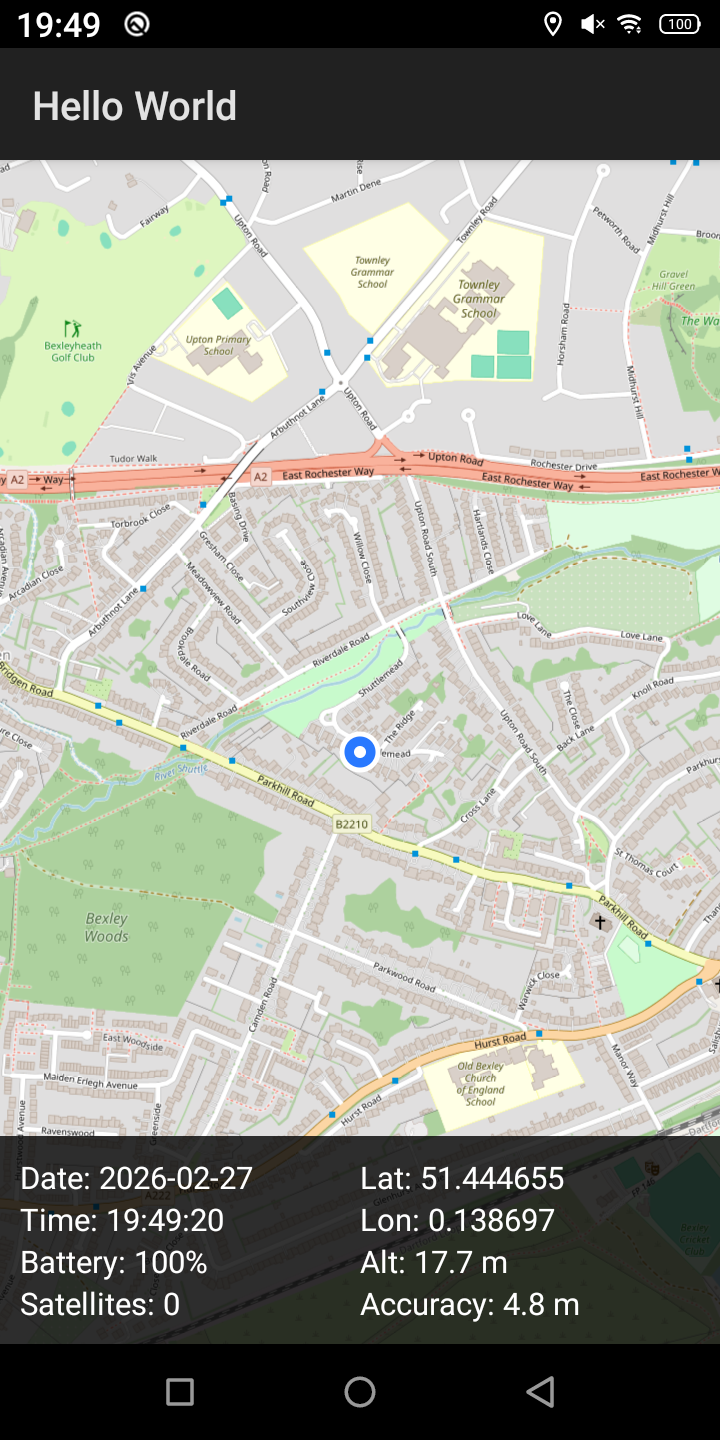
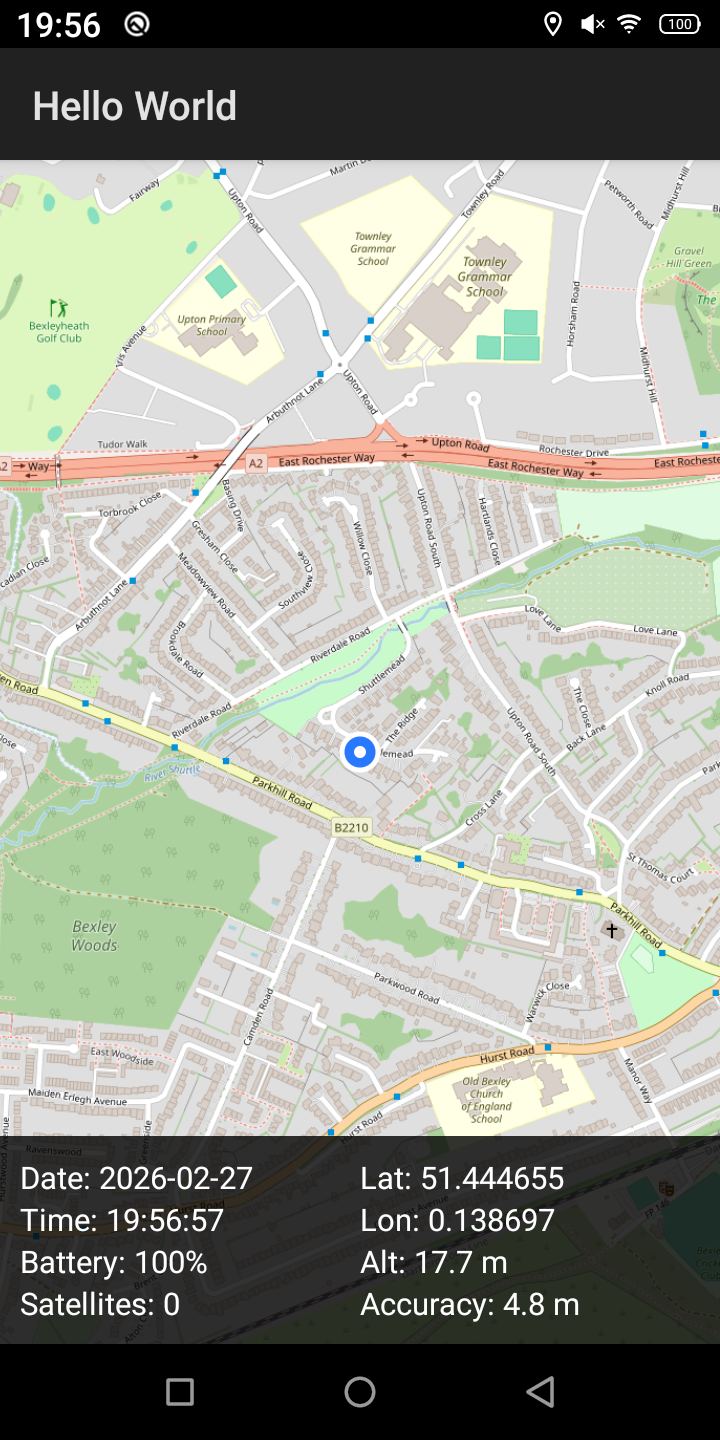
Add pinch-to-zoom on map
ScaleGestureDetector drives a displayScale float; tiles are drawn
scaled between integer zoom levels. Crossing 2x/0.5x thresholds
increments/decrements the OSM zoom level (clamped 1-19) and fetches
new tiles automatically.

Changed region(s): [[0.0, 0.0938, 1.0, 0.875], [0.0917, 0.0, 0.1528, 0.0312]]

diff --git a/HelloWorld/src/com/example/helloworld/MapView.java b/HelloWorld/src/com/example/helloworld/MapView.java
@@ -6,7 +6,10 @@ import android.graphics.BitmapFactory;
 import android.graphics.Canvas;
 import android.graphics.Color;
 import android.graphics.Paint;
+import android.graphics.RectF;
 import android.util.AttributeSet;
+import android.view.MotionEvent;
+import android.view.ScaleGestureDetector;
 import android.view.View;
 
 import java.io.IOException;
@@ -19,25 +22,42 @@ import java.util.concurrent.Executors;
 
 public class MapView extends View {
 
-    private static final int ZOOM = 16;
-    private static final int TILE_SIZE = 256;
+    private static final int TILE_SIZE  = 256;
+    private static final int MIN_ZOOM   = 1;
+    private static final int MAX_ZOOM   = 19;
 
-    private double lat = 0, lon = 0;
+    private int   zoom         = 16;
+    private float displayScale = 1.0f;   // visual scale between integer zoom levels
+
+    private double  lat         = 0;
+    private double  lon         = 0;
     private boolean hasLocation = false;
 
-    private final ConcurrentHashMap<String, Bitmap> tileCache = new ConcurrentHashMap<>();
+    private final ConcurrentHashMap<String, Bitmap>  tileCache = new ConcurrentHashMap<>();
     private final ConcurrentHashMap<String, Boolean> inFlight  = new ConcurrentHashMap<>();
     private final ExecutorService executor = Executors.newFixedThreadPool(4);
 
-    private final Paint tilePaint        = new Paint();
+    private final Paint tilePaint        = new Paint(Paint.FILTER_BITMAP_FLAG);
     private final Paint placeholderPaint = new Paint();
     private final Paint dotFill          = new Paint(Paint.ANTI_ALIAS_FLAG);
     private final Paint dotBorder        = new Paint(Paint.ANTI_ALIAS_FLAG);
     private final Paint dotCenter        = new Paint(Paint.ANTI_ALIAS_FLAG);
-    private final Paint accuracyPaint    = new Paint(Paint.ANTI_ALIAS_FLAG);
 
-    public MapView(Context context) { super(context); init(); }
-    public MapView(Context context, AttributeSet attrs) { super(context, attrs); init(); }
+    private final RectF tileRect = new RectF();
+
+    private final ScaleGestureDetector scaleDetector;
+
+    public MapView(Context context) {
+        super(context);
+        scaleDetector = new ScaleGestureDetector(context, new PinchListener());
+        init();
+    }
+
+    public MapView(Context context, AttributeSet attrs) {
+        super(context, attrs);
+        scaleDetector = new ScaleGestureDetector(context, new PinchListener());
+        init();
+    }
 
     private void init() {
         placeholderPaint.setColor(Color.parseColor("#D0D0D0"));
@@ -51,10 +71,41 @@ public class MapView extends View {
 
         dotCenter.setColor(Color.WHITE);
         dotCenter.setStyle(Paint.Style.FILL);
-
-        accuracyPaint.setColor(Color.parseColor("#402979FF"));
-        accuracyPaint.setStyle(Paint.Style.FILL);
     }
+
+    // ── Pinch gesture ─────────────────────────────────────────────────────────
+
+    private class PinchListener extends ScaleGestureDetector.SimpleOnScaleGestureListener {
+        @Override
+        public boolean onScale(ScaleGestureDetector detector) {
+            displayScale *= detector.getScaleFactor();
+            displayScale  = Math.max(0.25f, Math.min(displayScale, 4.0f));
+
+            // Promote to next integer zoom level when we've scaled 2×
+            while (displayScale >= 2.0f && zoom < MAX_ZOOM) {
+                zoom++;
+                displayScale /= 2.0f;
+                prefetchTiles();
+            }
+            // Demote when we've shrunk to half
+            while (displayScale <= 0.5f && zoom > MIN_ZOOM) {
+                zoom--;
+                displayScale *= 2.0f;
+                prefetchTiles();
+            }
+
+            invalidate();
+            return true;
+        }
+    }
+
+    @Override
+    public boolean onTouchEvent(MotionEvent event) {
+        scaleDetector.onTouchEvent(event);
+        return true;
+    }
+
+    // ── Public API ────────────────────────────────────────────────────────────
 
     public void setLocation(double lat, double lon) {
         this.lat = lat;
@@ -64,45 +115,44 @@ public class MapView extends View {
         postInvalidate();
     }
 
-    // --- Tile math ---
+    // ── Tile math ─────────────────────────────────────────────────────────────
 
-    private int tileX(double lon) {
-        return (int) Math.floor((lon + 180.0) / 360.0 * (1 << ZOOM));
+    private int tileX(double lon, int z) {
+        return (int) Math.floor((lon + 180.0) / 360.0 * (1 << z));
     }
 
-    private int tileY(double lat) {
+    private int tileY(double lat, int z) {
         double r = Math.toRadians(lat);
-        return (int) Math.floor((1.0 - Math.log(Math.tan(r) + 1.0 / Math.cos(r)) / Math.PI) / 2.0 * (1 << ZOOM));
+        return (int) Math.floor((1.0 - Math.log(Math.tan(r) + 1.0 / Math.cos(r)) / Math.PI) / 2.0 * (1 << z));
     }
 
-    private double pixelXInTile(double lon) {
-        double exact = (lon + 180.0) / 360.0 * (1 << ZOOM);
+    private double pixelXInTile(double lon, int z) {
+        double exact = (lon + 180.0) / 360.0 * (1 << z);
         return (exact - Math.floor(exact)) * TILE_SIZE;
     }
 
-    private double pixelYInTile(double lat) {
+    private double pixelYInTile(double lat, int z) {
         double r = Math.toRadians(lat);
-        double exact = (1.0 - Math.log(Math.tan(r) + 1.0 / Math.cos(r)) / Math.PI) / 2.0 * (1 << ZOOM);
+        double exact = (1.0 - Math.log(Math.tan(r) + 1.0 / Math.cos(r)) / Math.PI) / 2.0 * (1 << z);
         return (exact - Math.floor(exact)) * TILE_SIZE;
     }
 
-    // Metres per pixel at this zoom/latitude (used to draw accuracy circle)
-    private float metresPerPixel() {
-        return (float) (156543.03392 * Math.cos(Math.toRadians(lat)) / (1 << ZOOM));
+    private int wrapX(int x, int z) {
+        int max = 1 << z;
+        return ((x % max) + max) % max;
     }
 
-    // --- Tile fetching ---
+    // ── Tile fetching ─────────────────────────────────────────────────────────
 
     private void prefetchTiles() {
-        int cx = tileX(lon);
-        int cy = tileY(lat);
-        int maxTile = (1 << ZOOM) - 1;
+        int cx      = tileX(lon, zoom);
+        int cy      = tileY(lat, zoom);
+        int maxTile = (1 << zoom) - 1;
         for (int dy = -4; dy <= 4; dy++) {
             for (int dx = -4; dx <= 4; dx++) {
                 int ty = cy + dy;
                 if (ty < 0 || ty > maxTile) continue;
-                int tx = wrapX(cx + dx);
-                fetchTile(ZOOM, tx, ty);
+                fetchTile(zoom, wrapX(cx + dx, zoom), ty);
             }
         }
     }
@@ -134,12 +184,7 @@ public class MapView extends View {
         });
     }
 
-    private int wrapX(int x) {
-        int max = 1 << ZOOM;
-        return ((x % max) + max) % max;
-    }
-
-    // --- Drawing ---
+    // ── Drawing ───────────────────────────────────────────────────────────────
 
     @Override
     protected void onDraw(Canvas canvas) {
@@ -150,45 +195,46 @@ public class MapView extends View {
             return;
         }
 
-        int W = getWidth();
-        int H = getHeight();
+        int   W             = getWidth();
+        int   H             = getHeight();
+        float scaledTile    = TILE_SIZE * displayScale;
 
-        int cx = tileX(lon);
-        int cy = tileY(lat);
-        float px = (float) pixelXInTile(lon);
-        float py = (float) pixelYInTile(lat);
+        int   cx  = tileX(lon, zoom);
+        int   cy  = tileY(lat, zoom);
+        float px  = (float) pixelXInTile(lon, zoom) * displayScale;
+        float py  = (float) pixelYInTile(lat, zoom) * displayScale;
 
-        // Top-left pixel of the centre tile on screen
         float tileLeft = W / 2f - px;
         float tileTop  = H / 2f - py;
 
-        int maxTile = (1 << ZOOM) - 1;
-        int range = 5;
+        int maxTile = (1 << zoom) - 1;
+        int range   = (int) Math.ceil(Math.max(W, H) / scaledTile / 2) + 1;
 
         for (int dy = -range; dy <= range; dy++) {
             for (int dx = -range; dx <= range; dx++) {
-                float drawX = tileLeft + dx * TILE_SIZE;
-                float drawY = tileTop  + dy * TILE_SIZE;
-                if (drawX + TILE_SIZE < 0 || drawX > W) continue;
-                if (drawY + TILE_SIZE < 0 || drawY > H) continue;
+                float drawX = tileLeft + dx * scaledTile;
+                float drawY = tileTop  + dy * scaledTile;
+                if (drawX + scaledTile < 0 || drawX > W) continue;
+                if (drawY + scaledTile < 0 || drawY > H) continue;
                 int ty = cy + dy;
                 if (ty < 0 || ty > maxTile) continue;
-                int tx = wrapX(cx + dx);
-                String key = ZOOM + "/" + tx + "/" + ty;
+                int tx = wrapX(cx + dx, zoom);
+
+                String key  = zoom + "/" + tx + "/" + ty;
                 Bitmap tile = tileCache.get(key);
+                tileRect.set(drawX, drawY, drawX + scaledTile, drawY + scaledTile);
                 if (tile != null) {
-                    canvas.drawBitmap(tile, drawX, drawY, tilePaint);
+                    canvas.drawBitmap(tile, null, tileRect, tilePaint);
                 } else {
-                    canvas.drawRect(drawX, drawY, drawX + TILE_SIZE, drawY + TILE_SIZE, placeholderPaint);
-                    fetchTile(ZOOM, tx, ty);
+                    canvas.drawRect(tileRect, placeholderPaint);
+                    fetchTile(zoom, tx, ty);
                 }
             }
         }
 
-        // Location marker at screen centre
+        // Location dot at screen centre
         float mx = W / 2f;
         float my = H / 2f;
-
         canvas.drawCircle(mx, my, 18f, dotFill);
         canvas.drawCircle(mx, my, 18f, dotBorder);
         canvas.drawCircle(mx, my,  6f, dotCenter);
